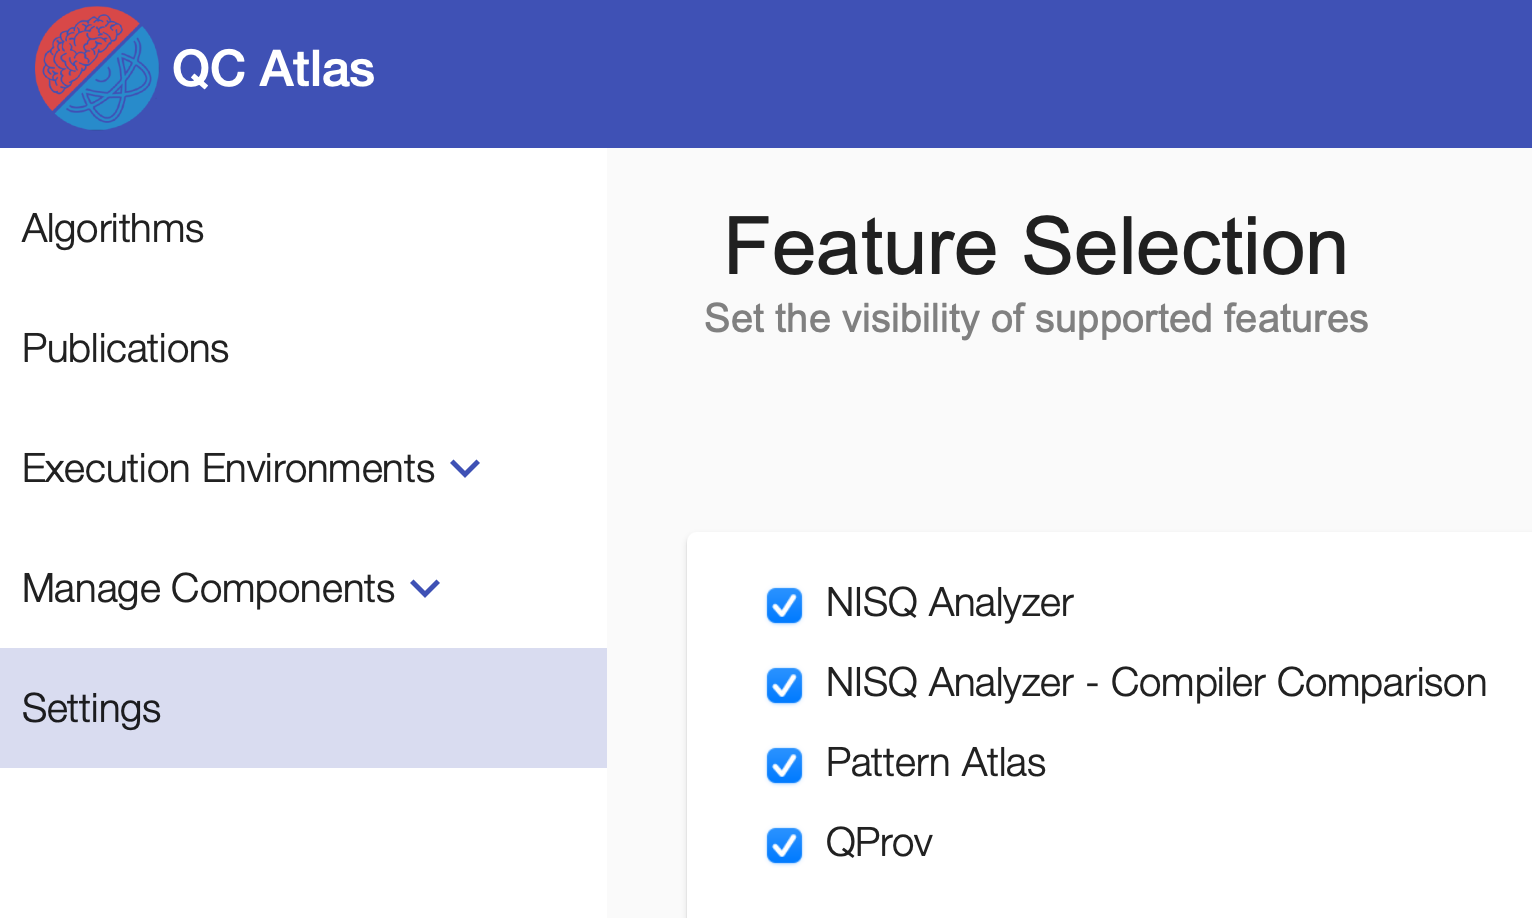
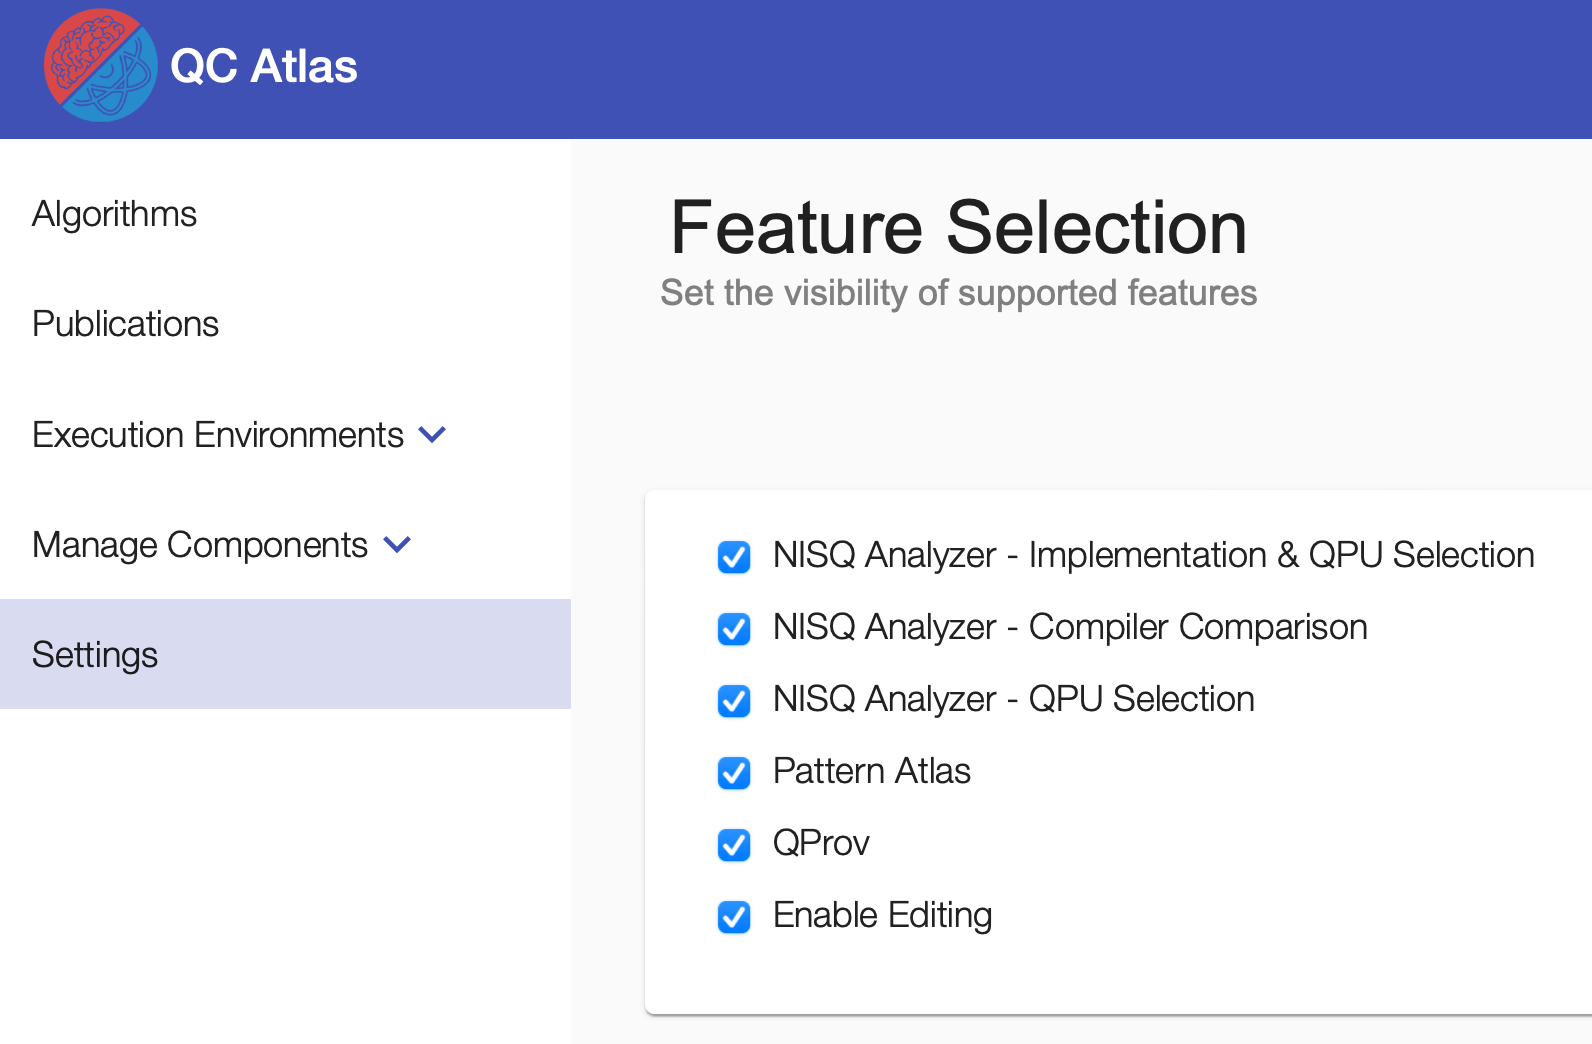
update docs (#35)

diff --git a/docs/user-guide/qc-atlas/algorithm.md b/docs/user-guide/qc-atlas/algorithm.md
@@ -376,7 +376,10 @@ This will open a new dialog containing multiple steps that need to be performed.
 
 ![alt text](../images/algorithm/Link_Pattern_-_Step_2.PNG "Structure of dialog for referencing patterns")
 
-In the first step, a pattern language needs to be selected by simply clicking on it. To filter specific pattern languages, the user can use the input field to filter them by their name.
+In the first step, a pattern language needs to be selected by simply clicking on it. To filter specific pattern languages, the user can use the input field to filter them by their name.  
+
+!!! info
+    By clicking on the small button at the bottom of a specific pattern language, a new browser window will open and all patterns of the selected pattern language are presented in the Pattern Atlas.
 
 ![alt text](../images/algorithm/Link_Pattern_-_Step_3.PNG "Select Pattern Language")
 
@@ -385,6 +388,10 @@ After a specific pattern language has been selected, the user can move the the n
 ![alt text](../images/algorithm/Link_Pattern_-_Step_4.PNG "Move to second step")
 
 In the second step, the user has to pick a pattern he wants to reference by clicking on it. Like in the first step, he can use the input field to filter the patterns by their names and he also can use the scrollbar to scroll through all patterns.
+
+!!! info
+    By clicking on the small button at the bottom of a specific pattern, a new browser window will open and the selected pattern with its properties is presented in the Pattern Atlas.
+
 
 ![alt text](../images/algorithm/Link_Pattern_-_Step_5.PNG "Select Pattern")
 

diff --git a/docs/index.md b/docs/index.md
@@ -28,6 +28,12 @@ It enables to analyze and compare different technologies and identify their inte
 
 [QHAna](./user-guide/qhana.md) - The **Q**uantum **H**umanities **Ana**lysis Tool is a toolset of Machine Learning techniques for classical and quantum hardware, designed for the use with the [MUSE Repository](https://www.iaas.uni-stuttgart.de/publications/INBOOK-2018-05-MUSE.pdf). It comprises a rich set of techniques, mostly for categorical data. The tools are split up into 4 different categories: **Data Preparation, Feature Engineering, Clustering,** and **Classification**. From each category various alternative methods can be selected to be used for the analysis.
 
+!!! note
+	QHAna is getting a new plugin based architecture.
+	Individual algorithms will be available as microservices with their own API and can be used in workflows and by other projects.
+	The user documentation for the new QHAna implementation will be updated soon.
+	More information can be found [here](./user-guide/qhana-new.md).
+
 ### Analysis & Execution
 The [Circuit Transformer](./user-guide/circuit-transformer.md) enables the translation of a given circuit into different languages.
 Furthermore, it enables the modification of the given circuit by providing a simple modelling tool representing qubits and gates and supports the simulation of the resulting measurements.

diff --git a/docs/user-guide/qhana-new.md b/docs/user-guide/qhana-new.md
@@ -1,0 +1,18 @@
+# QHAna User Guide
+
+QHAna - The **Q**uantum **H**umanities **Ana**lysis Tool is a toolset of Machine Learning techniques for classical and quantum hardware, designed for the use with the [MUSE Repository](https://www.iaas.uni-stuttgart.de/publications/INBOOK-2018-05-MUSE.pdf).
+It comprises a rich set of techniques, mostly for categorical data.
+
+The new version of QHAna is developed in three seperate repositories:
+
+ *  [qhana-ui](https://github.com/UST-QuAntiL/qhana-ui):
+    The user interface of QHAna.
+    It allows the user to create "Experiments" to analyse data with the available algorithms or test algorithms with the available data.
+ *  [qhana-backend](https://github.com/UST-QuAntiL/qhana-backend):
+    The backend stores the experiment data for the user interface.
+ *  [qhana-plugin-runner](https://github.com/UST-QuAntiL/qhana-plugin-runner):
+    A small wrapper for QHAna plugins that provides useful common functionality like robust background tasks.
+    Plugins can be developed without the plugin runner, but using the plugin runner can speedup development of new plugins.
+
+![The new architecture of QHAna](./images/qhana/qhana-new-architecture.jpg)
+

diff --git a/docs/user-guide/qprov.md b/docs/user-guide/qprov.md
@@ -11,12 +11,12 @@ To retrieve provenance data of a certain QPU, first set your IBMQ token at the `
 !!! note 
     Currently, only quantum computers of `IBMQ` are supported, thus, in this case, your IBMQ token is required.
 
-Then, add the QPU to the list of `Compute Resources` under `Execution Environments`, and define the required QPU name, see [Compute Resource](./qc-atlas/compute-resource.md). 
-Then, specify its `Vendor` under the `General` tab and click the save button.
+In case the QProv Collector is up and running, go to the list of `Compute Resources` under `Execution Environments` to trigger querying available QPUs. 
+The list now shows all available QPUs that can be inspected regarding their provenance data.
 
 ![Define vendor of QPU](./images/qprov/define-vendor.png)
 
-Refresh the page and open the `Provenance` tab.  
+Select a QPU and open the `Provenance` tab.  
 A great set of provenance data about the topology, metadata, qubits, and quantum gates is displayed.
 
 ![Provenance data of QPU](./images/qprov/provenance-data.png)

diff --git a/docs/user-guide/qc-atlas/settings.md b/docs/user-guide/qc-atlas/settings.md
@@ -7,6 +7,6 @@ Settings can be found by navigating to `Settings` in the navigation sidebar.
     The visibility of `Settings` and related functionalities can be en-/disabled by adapting `showSettings` under `config/default-config.json` in the cloned [quantil-docker repository](https://github.com/UST-QuAntiL/quantil-docker) before running the docker-compose.
 ### Feature Toggling
 
-For hiding/showing the UI components offering the features of [NISQ Analyzer](../user-guide/nisq-analyzer.md), [Pattern Atlas](../user-guide/qc-atlas/pattern-relation-type.md), and [QProv](../user-guide/qprov.md), click the related checkboxes.
+To enable/disable editing and hide/show the UI components offering the different features of [NISQ Analyzer](../user-guide/nisq-analyzer.md), [Pattern Atlas](../user-guide/qc-atlas/pattern-relation-type.md), and [QProv](../user-guide/qprov.md), click the related checkboxes.
 
 ![settings_feature_toggling](../images/settings/feature-toggling.png){: style="width:600px"}

diff --git a/docs/user-guide/qhana.md b/docs/user-guide/qhana.md
@@ -1,4 +1,4 @@
-# QHAna User Guide
+# QHAna User Guide (for the old QHAna prototype)
 
 [QHAna](https://github.com/UST-QuAntiL/qhana) - The **Q**uantum **H**umanities **Ana**lysis Tool is a toolset of Machine Learning techniques for classical and quantum hardware, designed for the use with the [MUSE Repository](https://www.iaas.uni-stuttgart.de/publications/INBOOK-2018-05-MUSE.pdf). It comprises a rich set of techniques, mostly for categorical data. The tools are split up into 4 different categories: **Data Preparation, Feature Engineering, Clustering,** and **Classification**.
 

diff --git a/docs/user-guide/qc-atlas/platform-login.md b/docs/user-guide/qc-atlas/platform-login.md
@@ -1,0 +1,8 @@
+## Logging into the PlanQK Platform
+To retrieve data available on the PlanQK platform, click the login button in the top right corner of the UI.
+
+![login](../images/planqk-login/login-button.png)
+
+You will be redirected to the login form of the official PlanQK plattform.
+Enter your credentials and you will be redirected to the QC Atlas UI.
+In case the login was successful, available algorithms, implementations, etc. are presented in the lists and can be viewed in detail.

diff --git a/docs/user-guide/qc-atlas.md b/docs/user-guide/qc-atlas.md
@@ -59,3 +59,7 @@ Also the collection of information about available software platforms, cloud ser
 {%
    include-markdown "./qc-atlas/settings.md"
 %}
+
+{%
+   include-markdown "./qc-atlas/platform-login.md"
+%}
